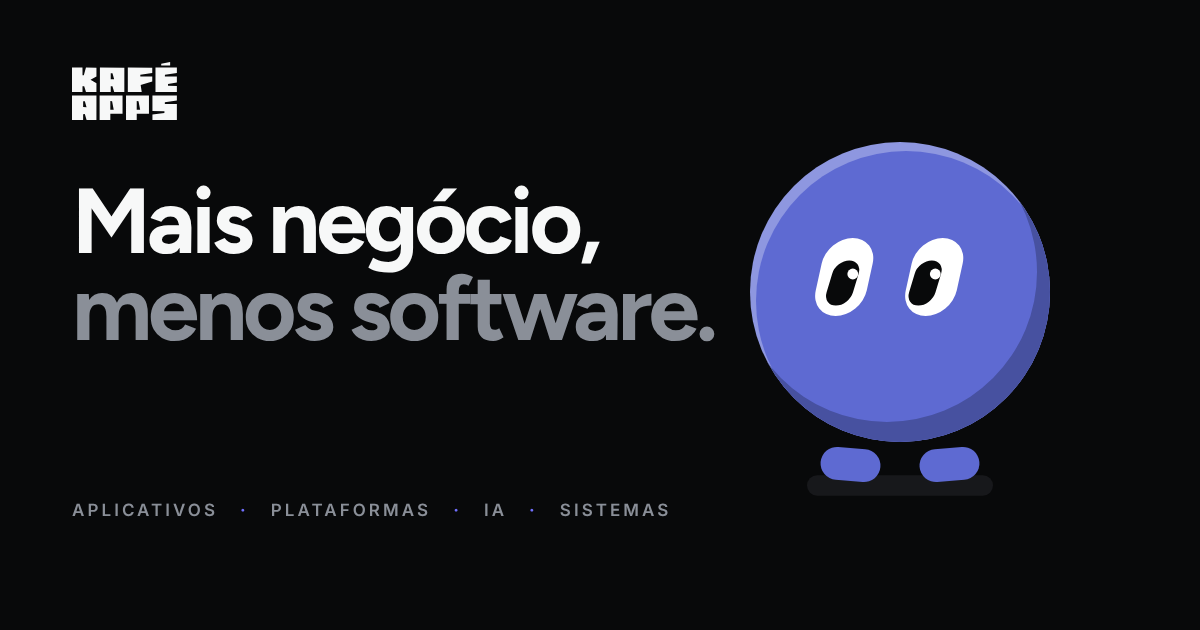
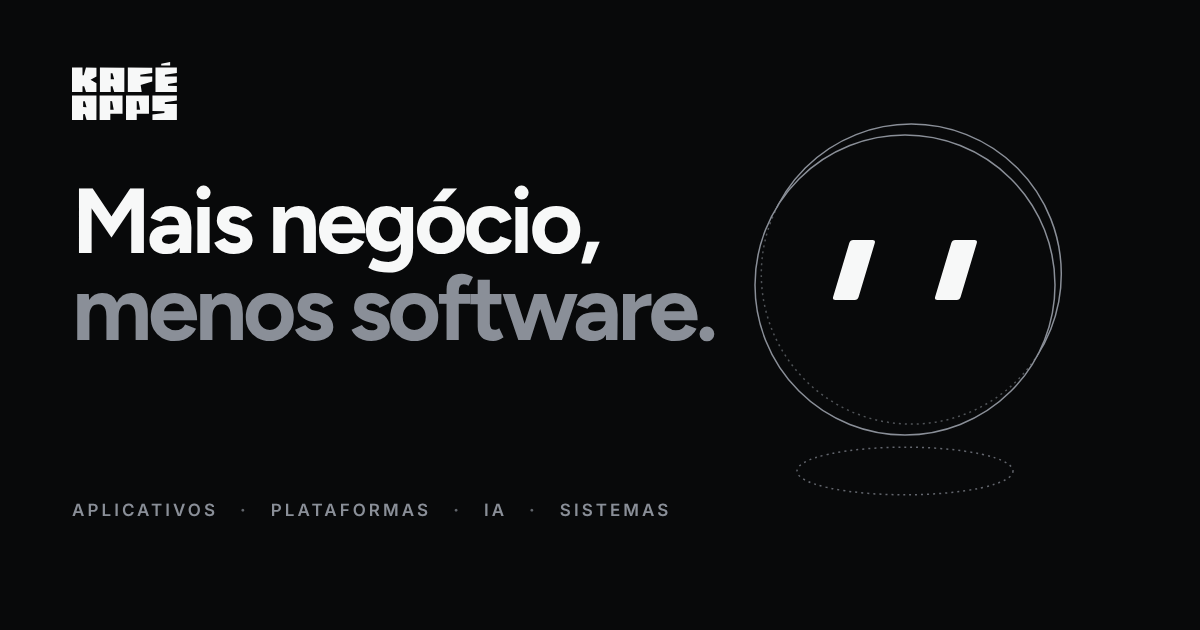
Mascote e ilustrações em traço, no estilo das figuras do Linear
- O motor em WebGL passa a desenhar só com linha fina cinza: a face da
  frente é a forma, a de trás sobe para a direita (volume 3D), a
  silhueta fecha as duas e as arestas escondidas ficam pontilhadas.
  Os traços acendem perto do cursor.
- O mascote volta aos olhos "//" (agora brancos), com sombra pontilhada
  no chão; os pezinhos só aparecem quando ele bate o pé.
- Sem cor na ilustração: --liquid é o traço (#8a8f98), --liquid-hi o
  traço perto do cursor e --liquid-ink os olhos.
- Legendas "FIG 0.x" nos espaços das ilustrações, como no Linear.
- Nova imagem de compartilhamento e README atualizado.

Claude-Session: https://claude.ai/code/session_01EDSy16zp7YeDkangh4hHvN

Changed region(s): [[0.6167, 0.181, 0.8942, 0.7841]]

diff --git a/src/scripts/liquid.ts b/src/scripts/liquid.ts
@@ -24,7 +24,7 @@ const SLOTS = 14;
 const BALL = 11;
 const NECK = 12;
 const BLOB = 13;
-/** Os pezinhos do mascote (sempre à mostra; batem quando ele fica feliz). */
+/** Os pezinhos do mascote (aparecem quando ele bate o pé de alegria). */
 const FOOT_L = 6;
 const FOOT_R = 7;
 const STORAGE_KEY = 'kafe:liquid:v3';
@@ -124,9 +124,12 @@ uniform vec4 uGrid;    // espaçamento, raio do ponto, deslocamento da rolagem, 
 uniform vec3 uPtr;     // cursor x, y, ativo
 uniform vec4 uHorizon; // faixa de café: topo (y), fundo (y), x do mascote, onda extra embaixo dele
 uniform vec4 uBox;     // caixa que contém o líquido (min x, min y, max x, max y)
-uniform vec3 uTint;    // cor do líquido
+uniform vec3 uTint;    // cor do traço das ilustrações
+uniform vec3 uHi;      // cor do traço perto do cursor
 uniform vec3 uInk;     // cor dos olhos
 uniform vec3 uBg;      // cor do fundo da página
+uniform vec2 uDepth;   // deslocamento da face de trás (volume 3D)
+uniform float uDpr;    // pixels do aparelho por pixel CSS
 uniform sampler2D uSmoke;
 
 float smin(float a, float b, float k) {
@@ -136,6 +139,23 @@ float smin(float a, float b, float k) {
 
 float smax(float a, float b, float k) {
 	return -smin(-a, -b, k);
+}
+
+// Largura de um pixel da tela medida na distância (deixa o traço com a mesma
+// espessura em qualquer direção).
+float fw(float d, float px) {
+#ifdef HAS_DERIV
+	// Limitado: um salto no valor (na borda da área de desenho) não vira traço.
+	return clamp(fwidth(d), px * 0.25, px * 2.0);
+#else
+	return px;
+#endif
+}
+
+// Traço fino e nítido sobre a borda (d = 0), com a largura definida em pixels CSS.
+float stroke(float d, float f, float widthCss) {
+	float hw = 0.5 * widthCss * uDpr;
+	return 1.0 - smoothstep(hw - 0.6, hw + 0.6, abs(d) / f);
 }
 
 float sdRBox(vec2 p, vec2 b, float r) {
@@ -281,51 +301,51 @@ void main() {
 	vec2 p = (uv * 2.0 - 1.0) * vec2(aspect, 1.0);
 	float px = 2.0 / uRes.y;
 
-	// Longe do líquido, nem calcula a forma.
+	// Estilo das ilustrações do Linear: objetos em 3D desenhados só com traço
+	// fino e cinza. A face da frente é a forma; a de trás, a mesma forma
+	// deslocada para cima e para a direita. O contorno das duas juntas é a
+	// silhueta, e as arestas de trás que ficam escondidas aparecem pontilhadas.
 	float near = boxDistance(p);
-	float dShape = near < 0.45 ? field(p) : 8.0;
-	float dSurf = surface(p);
-	// O mascote se funde com a superfície quando encosta nela.
-	float d = smin(dShape, dSurf, 0.08);
-	float aura = exp(-max(dShape, 0.0) * 6.0) * (1.0 - smoothstep(0.25, 0.45, near));
-	vec3 col = background(p, uv, aura);
-	float opacity = 0.2 + 0.8 * uDim * uDim;
-	// Brilho suave em volta (2D, como uma luz que vaza da forma).
-	col += uTint * aura * 0.035 * opacity;
-	// Sombra do mascote no chão: uma pílula chapada, como nas ilustrações do
-	// Duolingo (no fundo quase preto, ela aparece como um degrau de cinza).
-	if (uShadow.w > 0.001) {
-		float hh = uShadow.z * 0.11;
-		float ds = sdRBox(p - uShadow.xy, vec2(uShadow.z, hh), hh);
-		col = mix(col, uBg + vec3(0.06, 0.062, 0.068), (1.0 - smoothstep(-px, px, ds)) * uShadow.w);
+	// Fora da área de desenho, a distância até ela já basta (e é contínua).
+	float far = max(near, 0.45);
+	float dFront = far;
+	float dMid = far;
+	float dBack = far;
+	if (near < 0.45) {
+		dFront = field(p);
+		// Dois cortes no meio do caminho fecham a silhueta nas pontas finas.
+		dMid = min(field(p - uDepth * 0.333), field(p - uDepth * 0.667));
+		dBack = field(p - uDepth);
 	}
-	float depth = uHorizon.x - p.y;
-	float band = max(uHorizon.x - uHorizon.y, 0.001);
-	float surfOn = step(uHorizon.y + 0.001, uHorizon.x);
-	col += uTint * exp(-abs(p.y - uHorizon.x) * 9.0) * 0.12 * surfOn * step(-0.02, -depth);
+	float dSweep = min(dFront, min(dMid, dBack));
+	float fFront = fw(dFront, px);
+	float fBack = fw(dBack, px);
+	float fSweep = fw(dSweep, px);
 
-	if (d < px * 2.0) {
-		// 2D bem acabado: cor chapada, um degradê de cima para baixo e uma
-		// borda de luz do lado de cima (e sombra leve embaixo). Sem volume 3D.
-		// Quanto do ponto é superfície (e não forma): define o degradê e o sumiço para baixo.
-		float isSurf = smoothstep(-0.03, 0.03, dShape - dSurf);
-		vec3 fill = uTint * mix(1.0, 1.0 - 0.4 * smoothstep(0.0, band, depth), isSurf);
-		// Estilo Duolingo: cor chapada com duas faixas de tom, sem degradê.
-		// Uma sombra larga rente à borda de baixo à direita e uma luz fina rente
-		// à borda de cima à esquerda (o desenho deslocado diz onde cada faixa fica).
-		float shadeW = uCss * 11.0;
-		float lightW = uCss * 5.0;
-		if (d > -shadeW * 1.6) {
-			float dShade = scene(p + vec2(0.55, -0.84) * shadeW, near);
-			float dLight = scene(p + vec2(-0.55, 0.84) * lightW, near);
-			float shade = smoothstep(-px, px, dShade) * (1.0 - isSurf * 0.7);
-			float light = smoothstep(-px, px, dLight) * (1.0 - shade);
-			fill = mix(fill, uTint * 0.76, shade);
-			fill = mix(fill, mix(uTint, vec3(1.0), 0.3), light);
-		}
-		float alpha = (1.0 - smoothstep(-px, px, d)) * mix(opacity, 1.0 - smoothstep(band * 0.55, band, depth), isSurf);
-		col = mix(col, fill, alpha);
+	vec3 col = background(p, uv, 0.0);
+	float opacity = 0.2 + 0.8 * uDim * uDim;
+	// Pontilhado: um ponto a cada 4 pixels CSS, seguindo a diagonal da tela.
+	float dots = step(0.5, fract((gl_FragCoord.x + gl_FragCoord.y) / (4.0 * uDpr)));
+
+	// Sombra do mascote: uma elipse pontilhada no chão.
+	if (uShadow.w > 0.001) {
+		vec2 sr = vec2(uShadow.z, uShadow.z * 0.22);
+		float de = (length((p - uShadow.xy) / sr) - 1.0) * sr.y;
+		col = mix(col, uTint, stroke(de, fw(de, px), 1.0) * dots * uShadow.w * 0.7);
 	}
+
+	// O objeto esconde o que está atrás dele (o fundo continua liso por dentro).
+	float inside = 1.0 - smoothstep(-fSweep, fSweep, dSweep);
+	col = mix(col, uBg + vec3(0.004, 0.005, 0.006), inside * opacity);
+	// Os traços acendem um pouco perto do cursor.
+	float hover = exp(-dot2(p - uPtr.xy) * 7.0) * uPtr.z;
+	vec3 ink = mix(uTint, uHi, hover * 0.85);
+	float lineSil = stroke(dSweep, fSweep, 1.0);
+	float lineFront = stroke(dFront, fFront, 1.0);
+	float visible = max(lineSil, lineFront);
+	float hidden = stroke(dBack, fBack, 1.0) * (1.0 - visible) * dots;
+	col = mix(col, ink, visible * opacity);
+	col = mix(col, uTint, hidden * 0.55 * opacity);
 
 	if (uEye.w > 0.01 && length(p - uEye.xy) < uEye.z * 1.4) {
 		float ed = eyes(p);
@@ -479,7 +499,9 @@ export function initLiquid(canvas: HTMLCanvasElement) {
 	});
 	if (!gl) return;
 
-	const program = createProgram(gl, FRAGMENT_SHADER);
+	// Com derivadas na tela, o traço fica com a mesma espessura em qualquer direção.
+	const derivatives = Boolean(gl.getExtension('OES_standard_derivatives'));
+	const program = createProgram(gl, (derivatives ? '#extension GL_OES_standard_derivatives : enable\n#define HAS_DERIV 1\n' : '') + FRAGMENT_SHADER);
 	const smokeProgram = createProgram(gl, SMOKE_SHADER);
 	if (!program || !smokeProgram) return;
 
@@ -527,7 +549,10 @@ export function initLiquid(canvas: HTMLCanvasElement) {
 		css: u('uCss'),
 		box: u('uBox'),
 		tint: u('uTint'),
+		hi: u('uHi'),
 		ink: u('uInk'),
+		depth: u('uDepth'),
+		dpr: u('uDpr'),
 		bg: u('uBg'),
 		smoke: u('uSmoke'),
 		light: u('uLight'),
@@ -556,7 +581,8 @@ export function initLiquid(canvas: HTMLCanvasElement) {
 	// Resolução real do aparelho (até 2x): as bordas ficam nítidas como o texto.
 	let quality = 1;
 	let tint = cssColor('--liquid', [1, 1, 1]);
-	let ink = cssColor('--liquid-ink', [0.02, 0.02, 0.02]);
+	let ink = cssColor('--liquid-ink', [0.97, 0.97, 0.97]);
+	const highlight = cssColor('--liquid-hi', [0.82, 0.84, 0.88]);
 	const pageBg = cssColor('--liquid-bg', [0.03, 0.035, 0.04]);
 	let time = 0;
 	let running = false;
@@ -565,7 +591,7 @@ export function initLiquid(canvas: HTMLCanvasElement) {
 	let skipFrame = false;
 	let lastInteraction = performance.now();
 
-	const globals = { dim: 1, k: 0.2, wob: 0.011, shine: 1, settle: 0 };
+	const globals = { dim: 1, k: 0.2, wob: 0.011, shine: 1, settle: 0, depth: 0 };
 	const eye = { alpha: 0, gx: 0, gy: 0, openL: 1, openR: 1, nextBlink: 2, blinkUntil: 0, spin: 0, roll: 0, offX: 0, offY: 0 };
 	const expr: Expression = { happy: 0, surprise: 0, angry: 0, love: 0, dizzy: 0, star: 0, sad: 0 };
 	const mascot = {
@@ -794,12 +820,15 @@ export function initLiquid(canvas: HTMLCanvasElement) {
 					k: crisp ? 0.004 : 0.025 * detail,
 					wob: 0,
 					shine: 0,
+					// Volume do desenho em traço: o mascote é mais raso que as ilustrações.
+					depth: (def.eyes ? 0.07 : 0.1) * place.s,
 				}
 			: {
 					dim: (def.dim ?? 0.95) * place.dim,
 					k: (def.k ?? 0.2) * detail * (crisp ? 1 + 2.2 * loose : 1),
 					wob: (def.wob ?? 0.011) * detail * (crisp ? loose : 1),
 					shine: crisp ? 0 : 1,
+					depth: (def.eyes ? 0.07 : 0.1) * place.s,
 				};
 		for (const key of Object.keys(goal) as (keyof typeof goal)[]) {
 			globals[key] += (goal[key] - globals[key]) * ease;
@@ -1207,12 +1236,11 @@ export function initLiquid(canvas: HTMLCanvasElement) {
 				target[1] -= 0.05 * R0;
 				target[3] *= 0.95;
 			}
-			// Pezinhos sempre à mostra, soltos do corpo (como os personagens do Duolingo).
-			// Com o mouse num botão de contato, ele bate o pé de alegria: um pé fica
-			// plantado, o outro bate com a ponta para cima, e o corpo quica.
+			// Pezinhos: com o mouse num botão de contato, ele bate o pé de alegria
+			// (um pé fica plantado, o outro bate com a ponta para cima, e o corpo quica).
 			const wantTap = mascot.lookMood === 'tap' && !mascot.dragging && !mascot.sleeping ? 1 : 0;
 			mascot.tap += (wantTap - mascot.tap) * Math.min(1, dt * (wantTap ? 7 : 9));
-			const feet = eye.alpha;
+			const feet = mascot.tap;
 			if (feet > 0.01) {
 				const k = mascot.tap;
 				const beat = Math.max(0, Math.sin(time * Math.PI * 2 * 2.4));
@@ -1423,8 +1451,7 @@ export function initLiquid(canvas: HTMLCanvasElement) {
 		if (solid && visibleMascot) {
 			const R = 0.82 * lastPlace.s;
 			const lift = clamp((body[1] - restY) / Math.max(R, 0.01), 0, 1.5);
-			// Na altura da sola dos pezinhos.
-			mascot.shadow = [body[0], restY - R * 1.29, R * 0.62 * (1 - lift * 0.3), eye.alpha * (1 - lift * 0.45)];
+			mascot.shadow = [body[0], restY - R * 1.24, R * 0.72 * (1 - lift * 0.3), eye.alpha * (1 - lift * 0.45)];
 		} else {
 			mascot.shadow[3] += (0 - mascot.shadow[3]) * Math.min(1, dt * 6);
 		}
@@ -1740,7 +1767,7 @@ export function initLiquid(canvas: HTMLCanvasElement) {
 		springK[0] = bodyK;
 		springC[0] = bodyC;
 		springK[BLOB] = mascot.dragging ? 140 : mascot.snapping ? 110 : 6.5;
-		if (formation.def.eyes && eye.alpha > 0.01) {
+		if (mascot.tap > 0.01) {
 			springK[FOOT_L] = springK[FOOT_R] = 320;
 			springC[FOOT_L] = springC[FOOT_R] = 34;
 		}
@@ -1798,7 +1825,8 @@ export function initLiquid(canvas: HTMLCanvasElement) {
 
 		// Gota do cursor (só nas formações "orgânicas").
 		// A gotinha que segue o cursor só aparece perto do mascote (no resto, ficaria parecendo mancha).
-		const cursorTarget = pointer.active && def.eyes && !mascot.dragging ? 0.055 * Math.min(aspect, 1) : 0;
+		// A gotinha que seguia o cursor perto do mascote não combina com o desenho em traço.
+		const cursorTarget = 0;
 		if (cursor.r < 0.002 && pointer.active) {
 			cursor.x = pointer.x;
 			cursor.y = pointer.y;
@@ -1916,6 +1944,10 @@ export function initLiquid(canvas: HTMLCanvasElement) {
 		gl!.uniform4f(uniforms.box, ...liquidBox());
 		gl!.uniform3f(uniforms.tint, ...tint);
 		gl!.uniform3f(uniforms.ink, ...ink);
+		gl!.uniform3f(uniforms.hi, ...highlight);
+		// A face de trás sobe e vai para a direita (como se a câmera estivesse acima).
+		gl!.uniform2f(uniforms.depth, globals.depth * 0.5, globals.depth * 0.866);
+		gl!.uniform1f(uniforms.dpr, height / cssH);
 		gl!.uniform3f(uniforms.bg, ...pageBg);
 		gl!.uniform2f(uniforms.light, pointer.lightX, pointer.lightY);
 		gl!.uniform4fv(uniforms.a, dataA);

diff --git a/src/styles/global.css b/src/styles/global.css
@@ -48,10 +48,11 @@
 	--black: var(--bg);
 	--white: var(--text);
 
-	/* Mascote e ilustrações (o líquido): roxo da marca, com os olhos "//"
-	   no tom do fundo. Use hex de 6 dígitos. */
-	--liquid: #5e6ad2;
-	--liquid-ink: #08090a;
+	/* Mascote e ilustrações, desenhados em traço como as do Linear: cor do
+	   traço, do traço perto do cursor e dos olhos "//". Use hex de 6 dígitos. */
+	--liquid: #8a8f98;
+	--liquid-hi: #d0d6e0;
+	--liquid-ink: #f7f8f8;
 	--liquid-bg: #08090a;
 
 	--gray-100: #f7f8f8;
@@ -73,6 +74,7 @@
 	--text-dim: var(--text-tertiary);
 	/* Segunda cor das manchetes (o trecho entre <em>): o cinza, como no Linear. */
 	--text-quiet: var(--text-tertiary);
+	--font-mono: ui-monospace, 'SF Mono', SFMono-Regular, Menlo, Consolas, monospace;
 
 	--gradient-metal: linear-gradient(100deg, var(--text) 0%, var(--text-secondary) 45%, var(--text-tertiary) 100%);
 	--glow: 0 0 0 1px rgb(255 255 255 / 0.1), 0 8px 24px -12px rgb(0 0 0 / 0.6);
@@ -141,6 +143,7 @@ html {
 }
 
 body {
+	counter-reset: fig;
 	min-height: 100vh;
 	font-family: var(--font-sans);
 	font-size: var(--fs-body);
@@ -601,7 +604,7 @@ ol[role='list'] {
 	width: 4px;
 	height: 11px;
 	border-radius: 1px;
-	background: var(--accent);
+	background: var(--text);
 	transform: skewX(-16deg);
 	animation: talk-blink 4s infinite;
 }

diff --git a/src/scripts/shapes.ts b/src/scripts/shapes.ts
@@ -178,7 +178,7 @@ const cycle = (active: number): ShapeDef => ({
 
 export const shapes = {
 	/* --- Mascote: o próprio líquido ganha olhos ------------------------- */
-	// Uma forma só, como os personagens do Duolingo (os pezinhos entram pelo motor).
+	// Uma forma só, desenhada em traço (os pezinhos entram pelo motor quando ele bate o pé).
 	mascot: {
 		...organic,
 		eyes: true,

diff --git a/README.md b/README.md
@@ -4,20 +4,19 @@ Site institucional da [Kafé Apps](https://kafeapps.com.br): software house de J
 
 Feito com [Astro](https://astro.build), gera um site 100% estático (HTML, CSS e um pouco de JavaScript): rápido, bom para SEO e fácil de hospedar em qualquer lugar.
 
-## Identidade visual: cores do Linear, mascote no estilo Duolingo
+## Identidade visual: cores e ilustrações no estilo do Linear
 
-- **Cores do [Linear](https://linear.app)**, com os mesmos valores que o site deles usa: fundo `#08090a`, texto `#f7f8f8`, cinzas `#d0d6e0`, `#8a8f98` e `#62666d`, bordas brancas a 8% e 12%, botão principal em pílula clara (`#e5e5e6`, texto `#08090a`) e o roxo da marca (`#5e6ad2`) com o destaque `#7170ff`.
+- **Cores do [Linear](https://linear.app)**, com os mesmos valores que o site deles usa: fundo `#08090a`, texto `#f7f8f8`, cinzas `#d0d6e0`, `#8a8f98` e `#62666d`, bordas brancas a 8% e 12%, botão principal em pílula clara (`#e5e5e6`, texto `#08090a`) e o roxo da marca (`#5e6ad2`) com o destaque `#7170ff` nos detalhes.
 - Os títulos têm dois tons, como no Linear: a primeira parte em branco e o trecho entre `<em>` em cinza.
-- O cinza `#62666d`, que o Linear usa em rótulos minúsculos, não passa no contraste mínimo para texto; aqui ele fica só em detalhes (réguas, linhas), e os textos secundários usam `#8a8f98`.
-- **Mascote e ilustrações no roxo da marca, em estilo Duolingo**: cor chapada com duas faixas de tom (uma sombra larga embaixo à direita e uma luz fina em cima à esquerda), os olhos em "//" (os recortes das letras do logo), pezinhos sempre à mostra e sombra em pílula.
-- Entre uma seção e outra, o desenho se recolhe numa bolinha, que salta em arco até o próximo espaço, achata ao pousar e "estoura" no novo desenho: as peças saem do centro uma a uma, passam um pouco do ponto e assentam (os recortes, como os do K, são entalhados por último). Se o desenho anterior já saiu da tela, o novo nasce direto no lugar.
-- O estilo antigo, com gotas que se fundem e a faixa de líquido na abertura, continua disponível: troque `data-liquid-style="solid"` por `"liquid"` na tag `<html>` em `src/layouts/Base.astro`.
-- Todas as cores ficam no topo de `src/styles/global.css`. Para trocar a cor do mascote e das ilustrações, mude `--liquid` (hex de 6 dígitos); `--liquid-ink` é a cor dos olhos e `--liquid-bg` o fundo desenhado pelo WebGL (deve ser igual a `--bg`).
+- O cinza `#62666d`, que o Linear usa em rótulos minúsculos, não passa no contraste mínimo para texto; aqui ele fica só em detalhes (legendas "FIG", réguas, linhas), e os textos secundários usam `#8a8f98`.
+- **Mascote e ilustrações em traço, como as figuras do Linear**: objetos em 3D desenhados só com linha fina cinza, sem preenchimento; a face de trás aparece em cima à direita, as arestas escondidas ficam pontilhadas e os traços acendem perto do cursor. O mascote mantém os olhos em "//" (em branco) e ganha uma sombra pontilhada no chão. Cada espaço de ilustração tem uma legenda "FIG 0.x".
+- Entre uma seção e outra, o desenho se recolhe numa bolinha, que salta em arco até o próximo espaço, achata ao pousar e "estoura" no novo desenho. Se o desenho anterior já saiu da tela, o novo nasce direto no lugar.
+- Todas as cores ficam no topo de `src/styles/global.css`. No desenho em WebGL: `--liquid` é a cor do traço, `--liquid-hi` a do traço perto do cursor, `--liquid-ink` a dos olhos e `--liquid-bg` a do fundo (deve ser igual a `--bg`).
 
 ## Destaques
 
-- **Líquido que explica o conteúdo (WebGL)**: um único corpo de líquido, em estilo 2D chapado como as ilustrações do Duolingo (cor sólida, bordas nítidas, uma faixa de sombra e uma de luz), acompanha a navegação e vira o desenho do que está escrito: um relógio no problema do tempo, barras de crescimento na virada, um ciclo na metodologia, o K da Kafé no "Sobre" e uma xícara no convite final. Cada forma tem um espaço reservado no layout, rola junto com o conteúdo e nunca fica por cima do texto. Nos cartões de serviço, basta passar o mouse para o líquido virar celular, navegador, IA, foguete, rede ou layout. Veja "Formas do líquido" abaixo.
-- **Mascote com personalidade**: no início da home (e tristinho na página 404), com os olhos em "//" inspirados nos recortes do K e pezinhos sempre à mostra. Ele acompanha o cursor, pisca, olha para onde a pessoa clica e muda de expressão:
+- **Líquido que explica o conteúdo (WebGL)**: um único corpo de líquido, desenhado em traço fino como as ilustrações do Linear (3D em linha, arestas escondidas pontilhadas), acompanha a navegação e vira o desenho do que está escrito: um relógio no problema do tempo, barras de crescimento na virada, um ciclo na metodologia, o K da Kafé no "Sobre" e uma xícara no convite final. Cada forma tem um espaço reservado no layout, rola junto com o conteúdo e nunca fica por cima do texto. Nos cartões de serviço, basta passar o mouse para o líquido virar celular, navegador, IA, foguete, rede ou layout. Veja "Formas do líquido" abaixo.
+- **Mascote com personalidade**: no início da home (e tristinho na página 404), com os olhos em "//" inspirados nos recortes do K. Ele acompanha o cursor, pisca, olha para onde a pessoa clica e muda de expressão:
   - clique: uma reação diferente a cada vez (feliz, piscadinha, surpreso, apaixonado); cliques demais o deixam tonto e depois bravo;
   - clique duplo: cambalhota; toque longo (celular): enche de ar;
   - arrastar (mouse): puxa-puxa. O corpo fica no lugar e se inclina, e o pedaço que você segura sai dele preso por um "pescoço" que afina e resiste conforme estica (perto do limite, ele treme de esforço). Ao soltar, a ponta volta num estalo e o corpo achata, balança e assenta;
